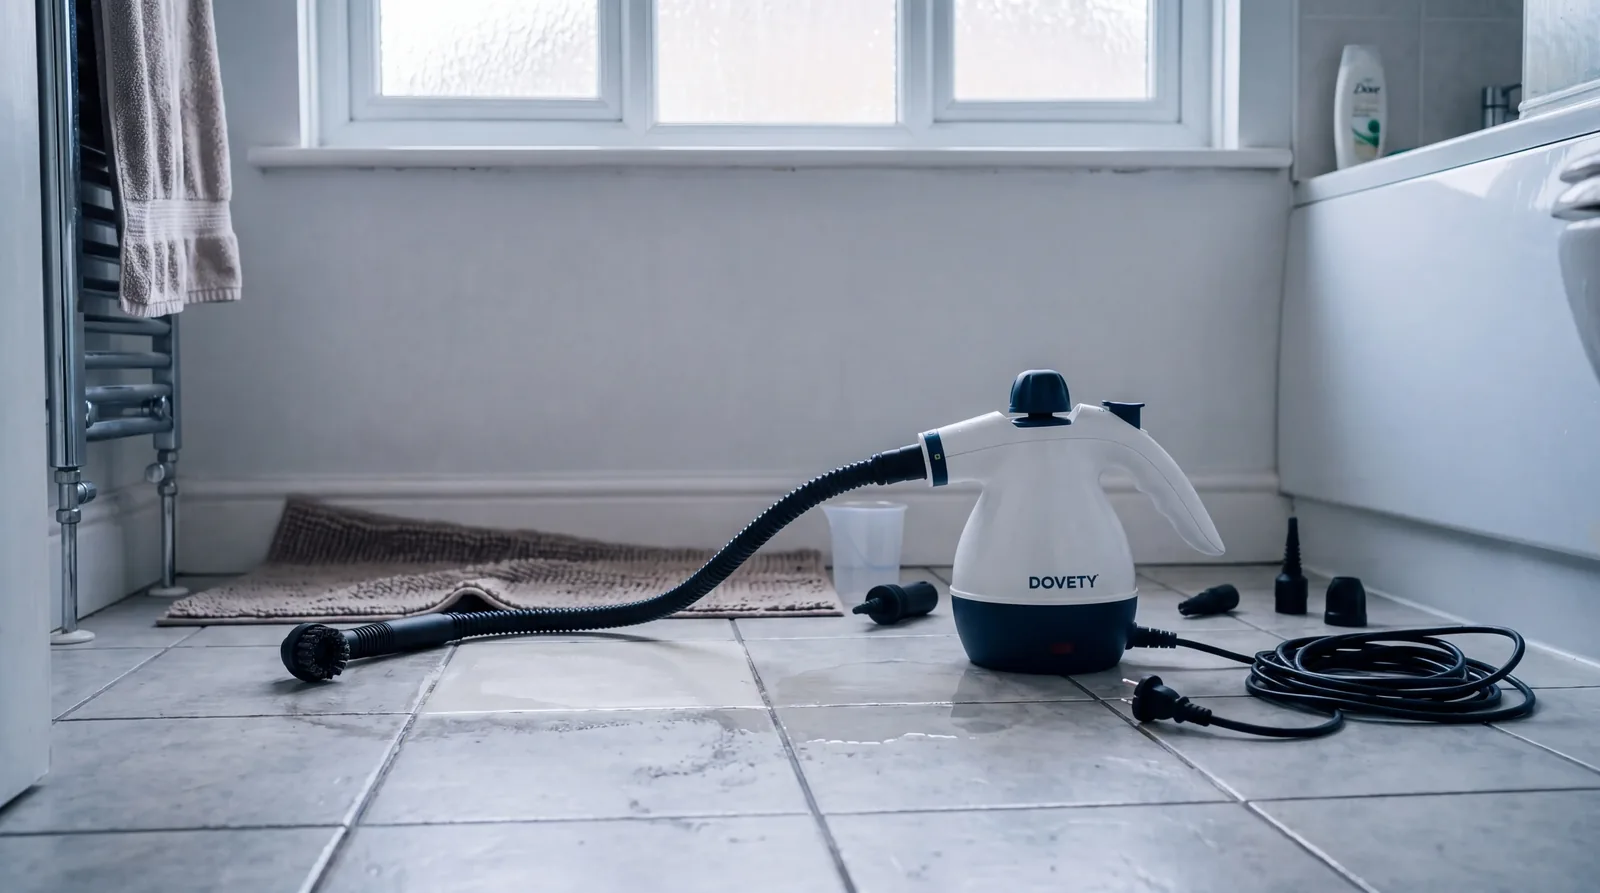
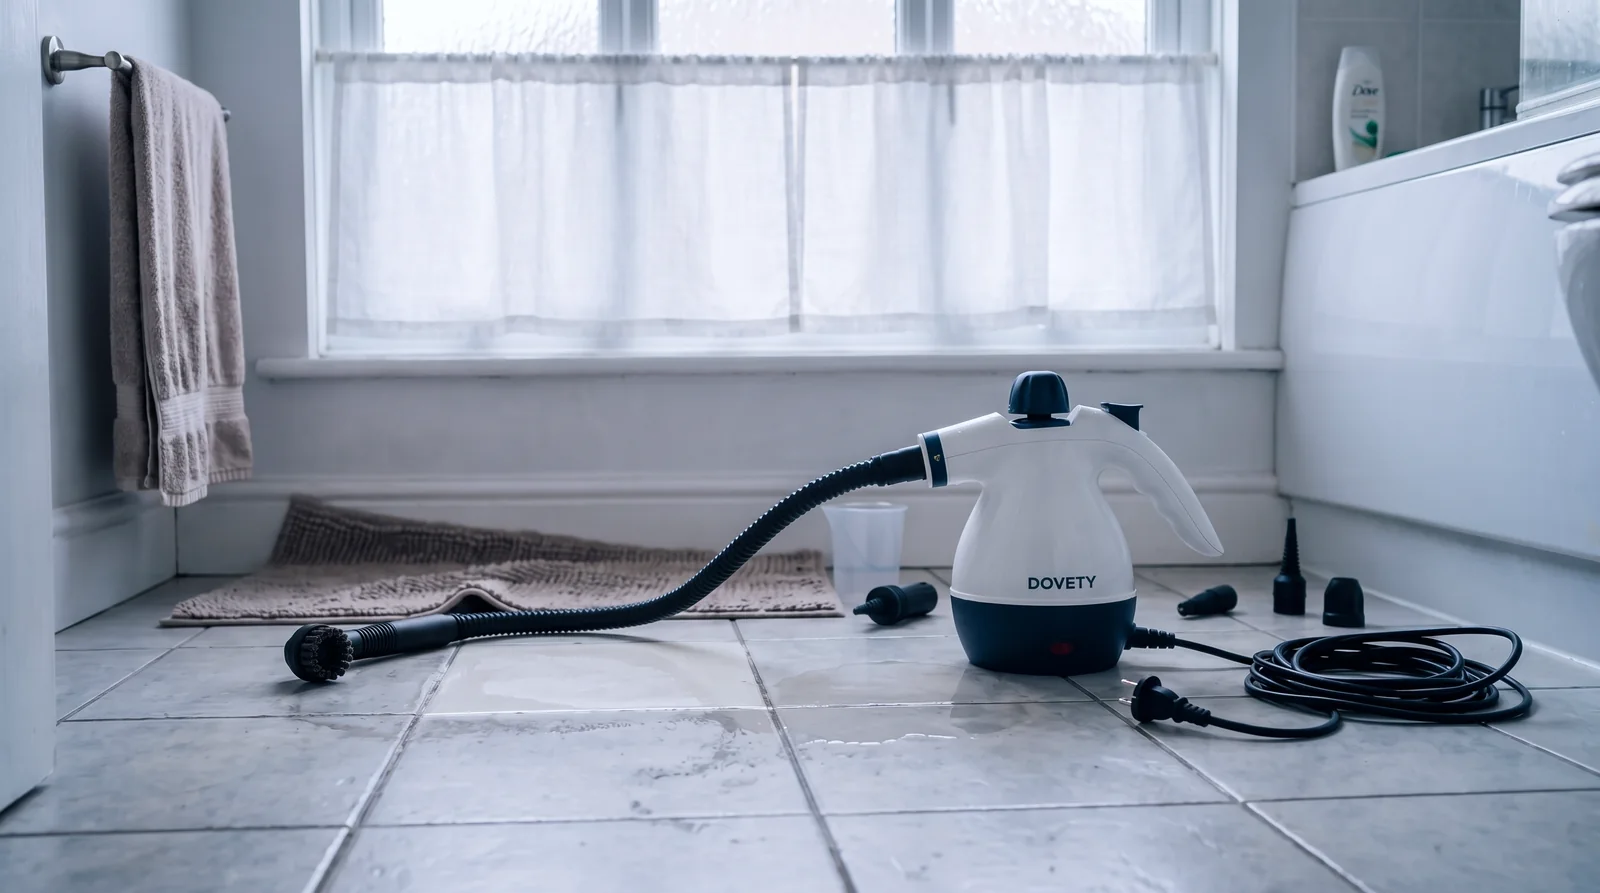
Steam cleaner photos: American towel bar and curtains in the bathroom

diff --git a/blog-pipeline/photos-completed/2026-08-15-steam-cleaner.md b/blog-pipeline/photos-completed/2026-08-15-steam-cleaner.md
@@ -4,7 +4,7 @@ post_title: PROVISIONAL - Steam Cleaner (Dovety)
 slug: dovety-steam-cleaner
 status: done
 cameron_processed: false
-note: "Nano Banana Pro 4K, hosted on scan.ismyhometoxic.com from the start, never left on the Higgsfield CDN. DELIVERED AFTER TWO ROUNDS OF SHANNON CORRECTIONS, both about the ACTION rather than the product. Round 1: I shot her steaming a flat WOODEN worktop. Wood is on the do-not-steam list and a flat counter is a cloth job, so the frame showed something no real person does. Round 2: I reshot on a kitchen splashback, and Shannon pushed again with I have never seen it used in a kitchen and a steamer like that gets used on floors. RESOLUTION: shot as a FLOOR job that is still a genuine handheld use, kneeling on a tiled BATHROOM FLOOR working the round grout brush along the FLOOR GROUT LINES. That satisfies the readers mental picture of a steamer and stays honest to what this specific machine is. DOVETY VERIFIED: real brand, CPSC STOP-USE warning, model TMSC-001, 52 reports of hot water or steam ejecting and 48 BURN INJURIES. The villain is a SCALD hazard, not a chemical one, which is the sharper story and the writer should lead on it. The machine is a 900W HANDHELD canister, roughly 3 minute heat-up and 8 to 12 minutes of steam, sold with small nozzles and brushes. It has NO mop head and NO extension wand, so it is not a steam mop. Amazon appears to have delisted it. Hero and turning point put her hands right beside the nozzle, which is exactly where an ejection would catch her, so the frames carry the hazard without depicting any injury. NO burn, no redness, nothing hurt anywhere in the set, the menace stays in the copy. Villain is the coldest frame: machine abandoned on the bathroom tiles with the grout brush still attached, plug pulled and cord coiled, one short run of grout damp and clean against grimy grout either side, nobody in frame but a real lived-in bathroom. Turning point has her sat back on her heels with a hand resting on the switched-off machine, gaze off across the room, settled and NOT defeated. Belonging and freedom are from the first shoot and stand: two clearly distinct women in their fifties cleaning with plain unlabelled bottles and brushes and no appliance, then the warmest frame with a mug in a clean kitchen. They carry no machine so the room change from bathroom to kitchen does not break anything. The slug and post_title remain PROVISIONAL, set by me, because PRIORITY-ORDER-2026-08-14 named a request file that was never written. Writer should overwrite them. NO baby, toddler, crib or high chair anywhere, per the women 40 to 60 rule. No warning symbols, hazmat, cartoon fumes or gibberish text. Belonging and freedom redone 2026-10-12 for check 15; they were the only kitchen frames and were small British kitchens with UK sockets, a built-in oven and a mug in freedom. Both are now one big lived-in kitchen in a suburban house in Knoxville, Tennessee: cream shaker cabinets, a big butcher block island, stainless French-door fridge, dishwasher, gas range with full oven door and a tea towel, farmhouse sink, floor-length cream linen curtains on black rods at every window. Belonging is the same two women cleaning up together with a plain unlabelled spray bottle and wooden brushes; freedom is golden morning, her leaning on the clear island, smiling, hands empty. The garbled dishwasher badge and controls were blurred by hand. Hero, villain and turning point (the bathroom) kept; hero and turning point were warmed because hero sat colder than the villain. Measured R/B ramp: villain 0.87, hero 1.09, turning point 1.24, belonging 1.48, freedom 1.94."
+note: "Nano Banana Pro 4K, hosted on scan.ismyhometoxic.com from the start, never left on the Higgsfield CDN. DELIVERED AFTER TWO ROUNDS OF SHANNON CORRECTIONS, both about the ACTION rather than the product. Round 1: I shot her steaming a flat WOODEN worktop. Wood is on the do-not-steam list and a flat counter is a cloth job, so the frame showed something no real person does. Round 2: I reshot on a kitchen splashback, and Shannon pushed again with I have never seen it used in a kitchen and a steamer like that gets used on floors. RESOLUTION: shot as a FLOOR job that is still a genuine handheld use, kneeling on a tiled BATHROOM FLOOR working the round grout brush along the FLOOR GROUT LINES. That satisfies the readers mental picture of a steamer and stays honest to what this specific machine is. DOVETY VERIFIED: real brand, CPSC STOP-USE warning, model TMSC-001, 52 reports of hot water or steam ejecting and 48 BURN INJURIES. The villain is a SCALD hazard, not a chemical one, which is the sharper story and the writer should lead on it. The machine is a 900W HANDHELD canister, roughly 3 minute heat-up and 8 to 12 minutes of steam, sold with small nozzles and brushes. It has NO mop head and NO extension wand, so it is not a steam mop. Amazon appears to have delisted it. Hero and turning point put her hands right beside the nozzle, which is exactly where an ejection would catch her, so the frames carry the hazard without depicting any injury. NO burn, no redness, nothing hurt anywhere in the set, the menace stays in the copy. Villain is the coldest frame: machine abandoned on the bathroom tiles with the grout brush still attached, plug pulled and cord coiled, one short run of grout damp and clean against grimy grout either side, nobody in frame but a real lived-in bathroom. Turning point has her sat back on her heels with a hand resting on the switched-off machine, gaze off across the room, settled and NOT defeated. Belonging and freedom are from the first shoot and stand: two clearly distinct women in their fifties cleaning with plain unlabelled bottles and brushes and no appliance, then the warmest frame with a mug in a clean kitchen. They carry no machine so the room change from bathroom to kitchen does not break anything. The slug and post_title remain PROVISIONAL, set by me, because PRIORITY-ORDER-2026-08-14 named a request file that was never written. Writer should overwrite them. NO baby, toddler, crib or high chair anywhere, per the women 40 to 60 rule. No warning symbols, hazmat, cartoon fumes or gibberish text. Belonging and freedom redone 2026-10-12 for check 15; they were the only kitchen frames and were small British kitchens with UK sockets, a built-in oven and a mug in freedom. Both are now one big lived-in kitchen in a suburban house in Knoxville, Tennessee: cream shaker cabinets, a big butcher block island, stainless French-door fridge, dishwasher, gas range with full oven door and a tea towel, farmhouse sink, floor-length cream linen curtains on black rods at every window. Belonging is the same two women cleaning up together with a plain unlabelled spray bottle and wooden brushes; freedom is golden morning, her leaning on the clear island, smiling, hands empty. The garbled dishwasher badge and controls were blurred by hand. Hero, villain and turning point (the bathroom) kept; hero and turning point were warmed because hero sat colder than the villain. Measured R/B ramp: villain 0.87, hero 1.09, turning point 1.24, belonging 1.48, freedom 1.94. Hero, villain and turning point fixed 2026-10-13 for American homes: the bathroom had a British chrome heated towel rail and a bare window. All three now have a plain brushed nickel towel bar with the same towel, and a white cafe curtain on the window. Pose, steamer, tile and light kept. The steamer plug in the villain is a two prong American plug. Measured R/B ramp: villain 0.87, hero 1.09, turning point 1.24, belonging 1.48, freedom 1.94."
 ---
 
 ### steamcleaner-hero-v1
